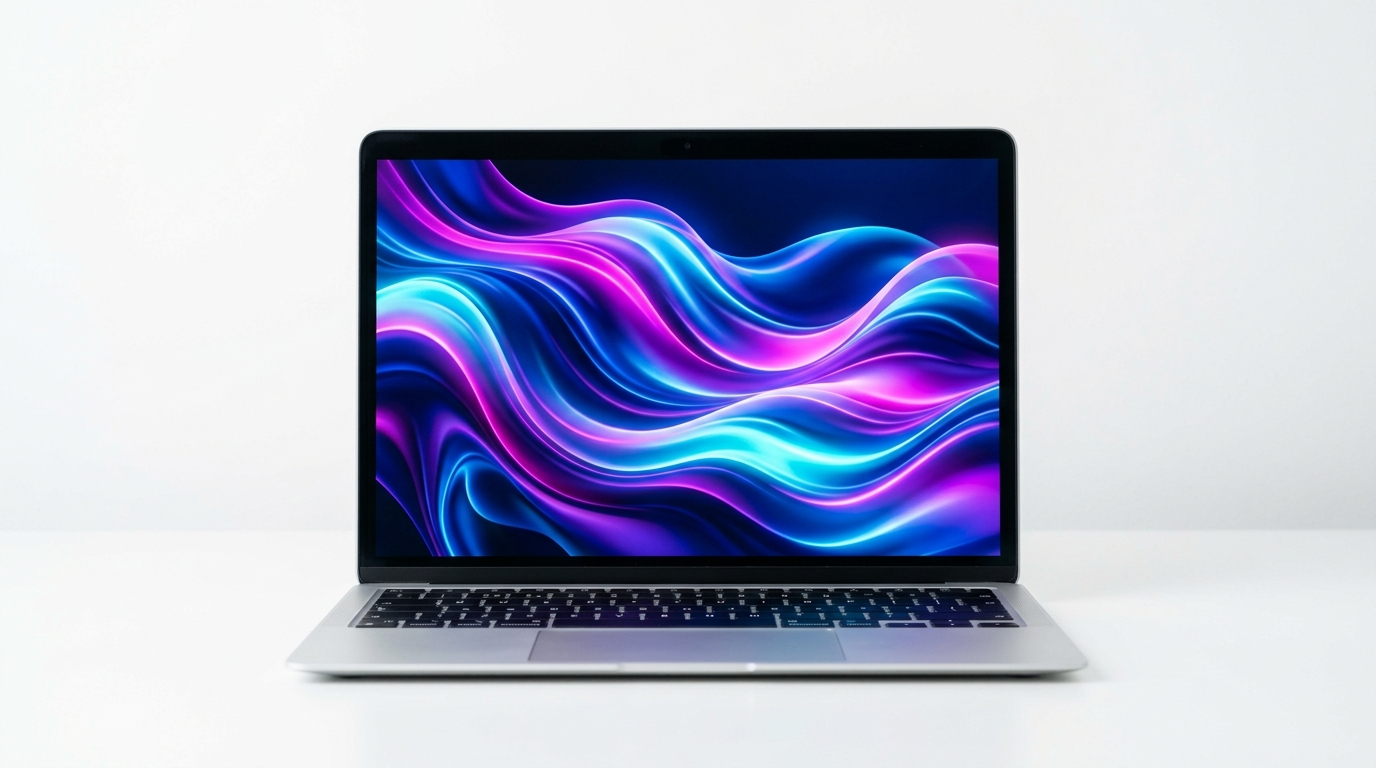
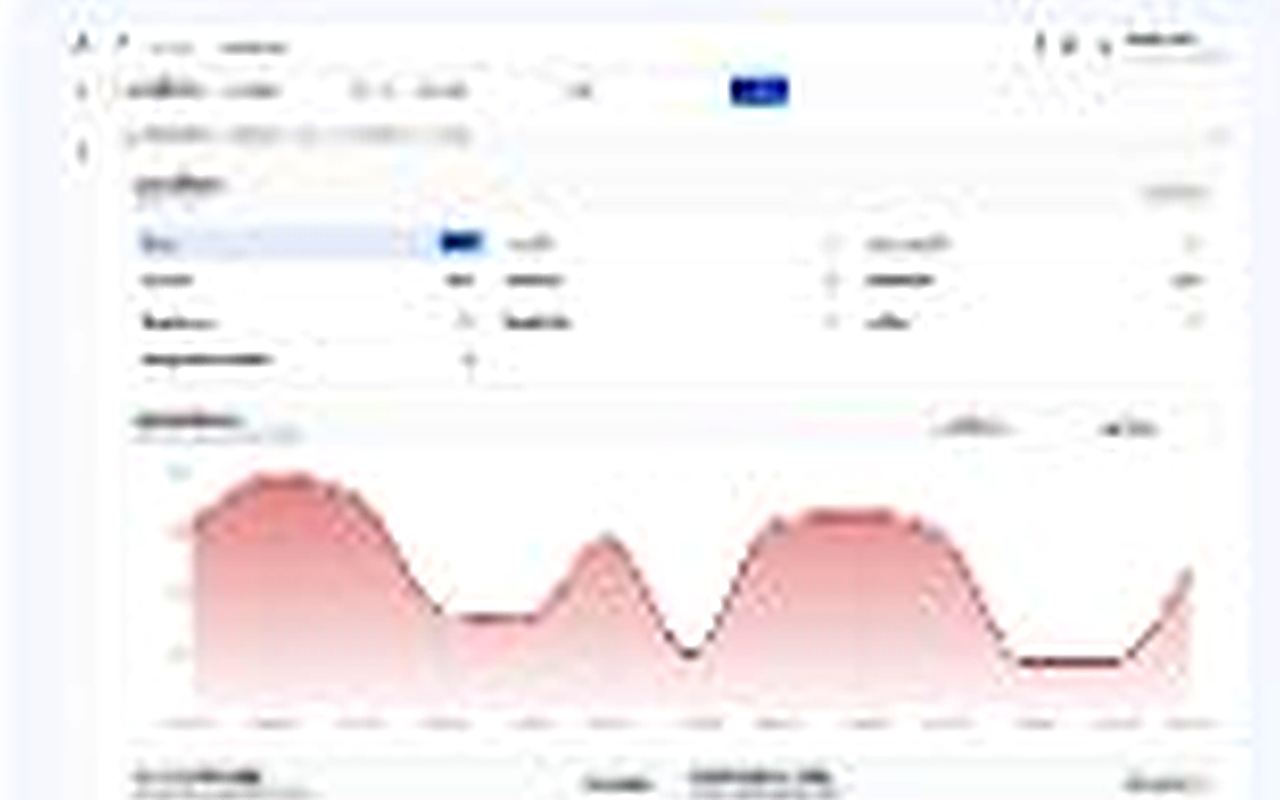
fix: replace generic laptop mockup with real analytics dashboard for Vitanix Claim feature 2

diff --git a/src/components/software-solution-view.tsx b/src/components/software-solution-view.tsx
@@ -73,7 +73,7 @@ export const VITANIX_FALLBACK = {
     "Cash Flow Optimization",
     "Direct Billing Reconciliation",
   ],
-  feature2Image: "/images/vitanix-claim.png",
+  feature2Image: "/images/vitanix-claim-analytics.png",
 };
 
 // ค่าเริ่มต้นเป็น Array ว่าง ไม่ใช้ข้อมูล mock
@@ -200,7 +200,12 @@ export function mapSoftwareRecordToProgram(
   const feature2Badge = r.feature_2_badge || (isVitanix ? VITANIX_FALLBACK.feature2Badge : "");
   const feature2Title = r.feature_2_title || (isVitanix ? VITANIX_FALLBACK.feature2Title : "");
   const feature2Desc = r.feature_2_desc || (isVitanix ? VITANIX_FALLBACK.feature2Desc : "");
-  const feature2Image = r.feature_2_image || (isVitanix ? VITANIX_FALLBACK.feature2Image : coverImage);
+  const feature2Image =
+    r.feature_2_image && r.feature_2_image !== "/images/vitanix-claim.png"
+      ? r.feature_2_image
+      : isVitanix
+      ? VITANIX_FALLBACK.feature2Image
+      : coverImage;
 
   return {
     id: `software-${r.id}`,
